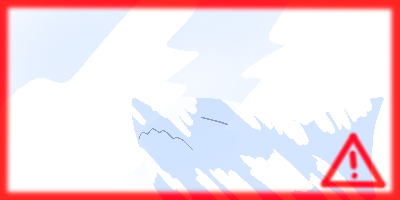
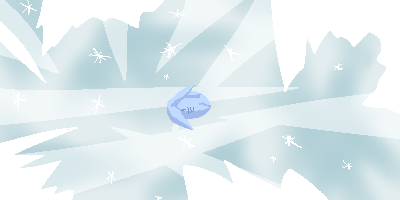
Changed around some Sprites
Swapped some home events around to their final places.

diff --git a/js/data/sprites.js b/js/data/sprites.js
@@ -331,7 +331,7 @@ SharkGame.Sprites = {
             h: 200,
         },
     },
-    "frigid-default": {
+    "frigid-ice-two": {
         frame: {
             x: 1214,
             y: 614,
@@ -351,27 +351,7 @@ SharkGame.Sprites = {
             h: 200,
         },
     },
-    "frigid-ice-one": {
-        frame: {
-            x: 2,
-            y: 818,
-            w: 400,
-            h: 200,
-        },
-        rotated: false,
-        trimmed: false,
-        spriteSourceSize: {
-            x: 0,
-            y: 0,
-            w: 400,
-            h: 200,
-        },
-        sourceSize: {
-            w: 400,
-            h: 200,
-        },
-    },
-    "frigid-ice-two": {
+    "frigid-icy-doom": {
         frame: {
             x: 406,
             y: 818,
